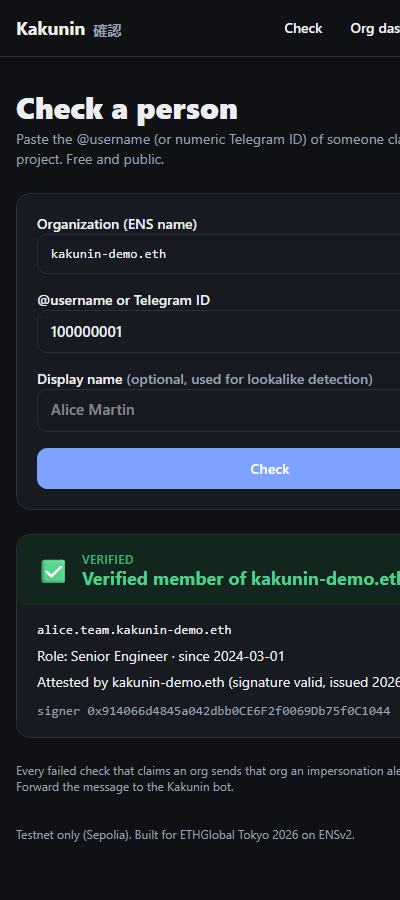
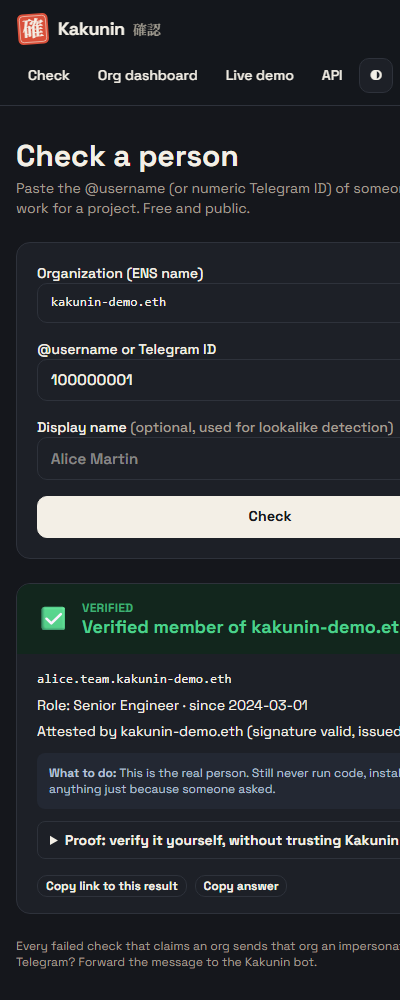
feat(web): org dashboard insights (stats, history, QR invites), play-the-story demo, shareable check links; refreshed screenshots

diff --git a/apps/web/src/components/OrgInsights.tsx b/apps/web/src/components/OrgInsights.tsx
@@ -1,0 +1,57 @@
+'use client'
+// At-a-glance numbers and the team's history, derived from what the dashboard already loads (ENSv2 state + registry events).
+interface M { label: string; fqn: string; status: 'active' | 'former'; registeredAt: number; revokedAt?: number; telegramId: string | null }
+interface A { id: string; at: number; kind: string }
+
+const DAY = 24 * 3600
+const fmt = (unix: number) => new Date(unix * 1000).toLocaleString(undefined, { month: 'short', day: 'numeric', hour: '2-digit', minute: '2-digit' })
+
+function Stat({ value, label, tone }: { value: number | string; label: string; tone?: 'ok' | 'warn' | 'bad' | 'info' }) {
+  const color = tone === 'ok' ? 'var(--ok)' : tone === 'warn' ? 'var(--warn)' : tone === 'bad' ? 'var(--bad)' : 'var(--ink)'
+  return (
+    <div className="card p-4">
+      <div className="text-3xl font-extrabold tabular-nums" style={{ color }}>{value}</div>
+      <div className="text-xs font-semibold uppercase tracking-wide" style={{ color: 'var(--muted)' }}>{label}</div>
+    </div>
+  )
+}
+
+export function OrgInsights({ members, alerts }: { members: M[]; alerts: A[] }) {
+  const now = Math.floor(Date.now() / 1000)
+  const active = members.filter((m) => m.status === 'active')
+  const attested = active.filter((m) => m.telegramId).length
+  const recent = alerts.filter((a) => now - a.at / 1000 < DAY).length
+  const events = members
+    .flatMap((m) => [
+      { ts: m.registeredAt, kind: 'added' as const, label: m.label },
+      ...(m.status === 'former' && m.revokedAt ? [{ ts: m.revokedAt, kind: 'revoked' as const, label: m.label }] : []),
+    ])
+    .sort((a, b) => b.ts - a.ts)
+    .slice(0, 8)
+
+  return (
+    <div className="grid gap-4 lg:grid-cols-[1fr_1.1fr]">
+      <div className="grid grid-cols-2 gap-3 sm:grid-cols-4 lg:grid-cols-2">
+        <Stat value={active.length} label="Active members" tone="ok" />
+        <Stat value={`${attested}/${active.length}`} label="Identity attested" tone={attested === active.length ? 'ok' : 'warn'} />
+        <Stat value={members.length - active.length} label="Revoked" tone={members.length - active.length ? 'warn' : 'info'} />
+        <Stat value={recent} label="Alerts, last 24 h" tone={recent ? 'bad' : 'info'} />
+      </div>
+      <section className="card p-4" aria-label="Team history">
+        <h2 className="mb-2 font-bold">Team history</h2>
+        <p className="mb-2 text-xs" style={{ color: 'var(--muted)' }}>From ENSv2 registry events: nothing here can be edited off-chain.</p>
+        {events.length === 0 ? <p className="text-sm" style={{ color: 'var(--muted)' }}>No events yet.</p> : (
+          <ol className="space-y-2">
+            {events.map((e, i) => (
+              <li key={`${e.label}-${e.kind}-${i}`} className="flex items-center gap-3 text-sm">
+                <span className={`pill ${e.kind === 'added' ? 'pill-ok' : 'pill-warn'} w-20 justify-center`}>{e.kind === 'added' ? 'added' : 'revoked'}</span>
+                <a className="mono underline" href={`/v/${e.label}`}>{e.label}</a>
+                <span className="ml-auto text-xs" style={{ color: 'var(--muted)' }}>{fmt(e.ts)}</span>
+              </li>
+            ))}
+          </ol>
+        )}
+      </section>
+    </div>
+  )
+}

diff --git a/apps/web/src/app/org/[name]/page.tsx b/apps/web/src/app/org/[name]/page.tsx
@@ -3,6 +3,9 @@ import { useCallback, useEffect, useState } from 'react'
 import { useParams } from 'next/navigation'
 import { DEPLOYMENT, addMember, revokeMember, setMemberText, ABIS, HR_REGISTRY_ROLES, type TxCtx } from '@kakunin/core/ens'
 import { inviteMessage } from '@kakunin/core/auth'
+import { CopyButton } from '@/components/CopyButton'
+import { InviteQR } from '@/components/InviteQR'
+import { OrgInsights } from '@/components/OrgInsights'
 import { connectWallet } from '@/lib/wallet'
 
 interface Member { label: string; fqn: string; status: 'active' | 'former'; role: string | null; since: string | null; registeredAt: number; revokedAt?: number; telegramId: string | null; username: string | null }
@@ -105,7 +108,9 @@ export default function OrgPage() {
             : <button className="btn btn-primary" onClick={connect} disabled={busy === 'connect'}>{busy === 'connect' ? 'Connecting…' : 'Connect wallet'}</button>}
         </div>
       </div>
-      {err && <p className="pill pill-bad max-w-full whitespace-normal break-words">{err}</p>}
+      {err && <p className="pill pill-bad max-w-full whitespace-normal break-words" role="alert">{err}</p>}
+
+      <OrgInsights members={members} alerts={alerts} />
 
       <section className="card overflow-hidden">
         <div className="flex items-center justify-between px-5 py-3"><h2 className="font-bold">Team ({active.length} active)</h2><span className="text-xs" style={{ color: 'var(--muted)' }}>live from ENSv2 · refreshes every 4s</span></div>
@@ -138,10 +143,14 @@ export default function OrgPage() {
       </section>
 
       {invite && (
-        <section className="pop card space-y-2 p-5">
-          <div className="font-semibold">One-time Telegram link for {invite.label}</div>
-          <p className="mono break-all rounded-lg p-3" style={{ background: 'var(--info-bg)' }}>{invite.url}</p>
-          <p className="text-xs" style={{ color: 'var(--muted)' }}>Send it to the member. Opening it from their own Telegram binds their numeric ID and writes the attestation on ENS. Single use.</p>
+        <section className="pop card flex flex-wrap items-center gap-5 p-5">
+          <InviteQR url={invite.url} />
+          <div className="min-w-0 flex-1 space-y-2">
+            <div className="font-semibold">One-time Telegram link for {invite.label}</div>
+            <p className="mono break-all rounded-lg p-3" style={{ background: 'var(--info-bg)' }}>{invite.url}</p>
+            <div className="flex flex-wrap items-center gap-2"><CopyButton text={invite.url} label="Copy link" /><span className="text-xs" style={{ color: 'var(--muted)' }}>or let them scan the code</span></div>
+            <p className="text-xs" style={{ color: 'var(--muted)' }}>Opening it from their own Telegram binds their numeric ID and writes the attestation on ENS. Single use, valid for 7 days.</p>
+          </div>
         </section>
       )}
 

diff --git a/apps/web/src/app/demo/page.tsx b/apps/web/src/app/demo/page.tsx
@@ -43,6 +43,18 @@ export default function DemoPage() {
     loadAlerts()
   }
 
+  // "Play the story": the four scenarios in order with a beat between them, so the presenter can talk instead of clicking.
+  const [playing, setPlaying] = useState(false)
+  async function play() {
+    setPlaying(true); setResults({})
+    for (const s of SCENARIOS) {
+      await check(s.id, s.body)
+      document.getElementById(`scenario-${s.id}`)?.scrollIntoView({ behavior: 'smooth', block: 'center' })
+      await new Promise((r) => setTimeout(r, 1400))
+    }
+    setPlaying(false)
+  }
+
   async function act(action: 'revoke' | 'reset') {
     setBusy(action); setNote(null)
     const res = await fetch('/api/demo', { method: 'POST', headers: { 'content-type': 'application/json', ...demoHeaders() }, body: JSON.stringify({ action, label: 'bob' }) })
@@ -54,16 +66,19 @@ export default function DemoPage() {
   return (
     <div className="space-y-8">
       <div>
-        <h1 className="text-3xl font-extrabold">Live demo</h1>
+        <div className="flex flex-wrap items-end justify-between gap-3">
+          <h1 className="text-3xl font-extrabold">Live demo</h1>
+          <button className="btn btn-primary" onClick={play} disabled={playing || busy !== null}>{playing ? 'Playing…' : '▶ Play the story'}</button>
+        </div>
         <p className="mt-1 max-w-2xl text-sm" style={{ color: 'var(--muted)' }}>
-          Org <span className="mono">kakunin-demo.eth</span> on Sepolia. Each button below performs a real ENSv2 read + attestation verification.
+          Org <span className="mono">kakunin-demo.eth</span> on Sepolia. Each button below performs a real ENSv2 read + attestation verification. Nothing is mocked.
         </p>
       </div>
 
       <div className="grid gap-5 lg:grid-cols-[1fr_320px]">
         <div className="space-y-5">
           {SCENARIOS.map((s) => (
-            <div key={s.id} className="card space-y-3 p-5">
+            <div key={s.id} id={`scenario-${s.id}`} className="card scroll-mt-24 space-y-3 p-5">
               <div className="flex flex-wrap items-center justify-between gap-2">
                 <div>
                   <div className="font-semibold">{s.label}</div>

diff --git a/apps/web/src/app/check/page.tsx b/apps/web/src/app/check/page.tsx
@@ -59,8 +59,14 @@ export default function CheckPage() {
         </label>
         <button className="btn btn-primary w-full" disabled={busy || !who.trim()}>{busy ? 'Checking on ENS…' : 'Check'}</button>
       </form>
-      {error && <p className="pill pill-bad">{error}</p>}
-      {result && <ResultCard result={result} />}
+      {busy && <div className="h-24 animate-pulse rounded-2xl" style={{ background: 'var(--info-bg)' }} aria-hidden />}
+      {error && <p className="pill pill-bad max-w-full whitespace-normal" role="alert">{error}</p>}
+      {result && (
+        <ResultCard
+          result={result}
+          shareUrl={typeof window === 'undefined' ? undefined : `${window.location.origin}/check?org=${encodeURIComponent(org)}&who=${encodeURIComponent(who.trim())}`}
+        />
+      )}
       <p className="text-xs" style={{ color: 'var(--muted)' }}>
         Every failed check that claims an org sends that org an impersonation alert. Prefer Telegram? Forward the message to the Kakunin bot.
       </p>

diff --git a/apps/web/src/components/InviteQR.tsx b/apps/web/src/components/InviteQR.tsx
@@ -1,0 +1,22 @@
+'use client'
+import { useMemo } from 'react'
+import qrcode from 'qrcode-generator'
+
+// QR code of the one-time Telegram link, drawn as inline SVG (no image, no network). Lets HR onboard a member from a phone screen.
+export function InviteQR({ url, size = 176 }: { url: string; size?: number }) {
+  const { path, n } = useMemo(() => {
+    const qr = qrcode(0, 'M')
+    qr.addData(url)
+    qr.make()
+    const count = qr.getModuleCount()
+    let d = ''
+    for (let r = 0; r < count; r++) for (let c = 0; c < count; c++) if (qr.isDark(r, c)) d += `M${c} ${r}h1v1h-1z`
+    return { path: d, n: count }
+  }, [url])
+  return (
+    <svg width={size} height={size} viewBox={`-2 -2 ${n + 4} ${n + 4}`} role="img" aria-label="QR code of the Telegram invite link" shapeRendering="crispEdges" className="rounded-lg">
+      <rect x="-2" y="-2" width={n + 4} height={n + 4} fill="#fff" />
+      <path d={path} fill="#15171c" />
+    </svg>
+  )
+}

diff --git a/README.md b/README.md
@@ -40,15 +40,23 @@ Three sides:
 
 ## Screenshots
 
-Live against the Sepolia deployment (dark theme shown; the UI follows the system theme and is mobile-friendly).
+Live against the Sepolia deployment at [kakunin.xyz](https://kakunin.xyz) (dark theme shown; the UI follows the system theme and is mobile-friendly).
 
-| Live demo (4 real checks + alerts) | Org dashboard (team, EAC delegation, alerts) |
+| Home: try it in one second | Verifiable profile |
+|---|---|
+| ![Home](docs/screenshots/landing.png) | ![Profile](docs/screenshots/profile.png) |
+
+| Live demo: four real checks + alerts | Org dashboard: team, EAC delegation, alerts |
 |---|---|
 | ![Live demo](docs/screenshots/demo.png) | ![Org dashboard](docs/screenshots/dashboard.png) |
 
-| Lookalike caught | Mobile |
-|---|---|
-| ![Lookalike](docs/screenshots/check-lookalike.png) | <img src="docs/screenshots/check-mobile.png" width="260" alt="Mobile check"> |
+| Lookalike caught | Verified, with proof | Mobile |
+|---|---|---|
+| ![Lookalike](docs/screenshots/check-lookalike.png) | ![Verified](docs/screenshots/check-verified.png) | <img src="docs/screenshots/check-mobile.png" width="220" alt="Mobile check"> |
+
+| API docs |
+|---|
+| ![API docs](docs/screenshots/docs.png) |
 
 ## How ENSv2 is used (central, not cosmetic)
 
@@ -143,7 +151,7 @@ Requirements: Node 22, pnpm.
 pnpm install
 cp .env.example .env            # then: pnpm spike:wallets  (generates throwaway testnet keys into .env)
 # fund the printed ORG and HR addresses with Sepolia ETH (faucet)
-pnpm test                       # 90 tests
+pnpm test                       # 93 tests
 pnpm rehearse                   # replays the whole demo against the live chain, with assertions
 pnpm --filter @kakunin/scripts seed      # idempotent: attester address, members, attestations (add --dry-run to preview)
 pnpm --filter @kakunin/web build && pnpm --filter @kakunin/web start   # http://localhost:3000
